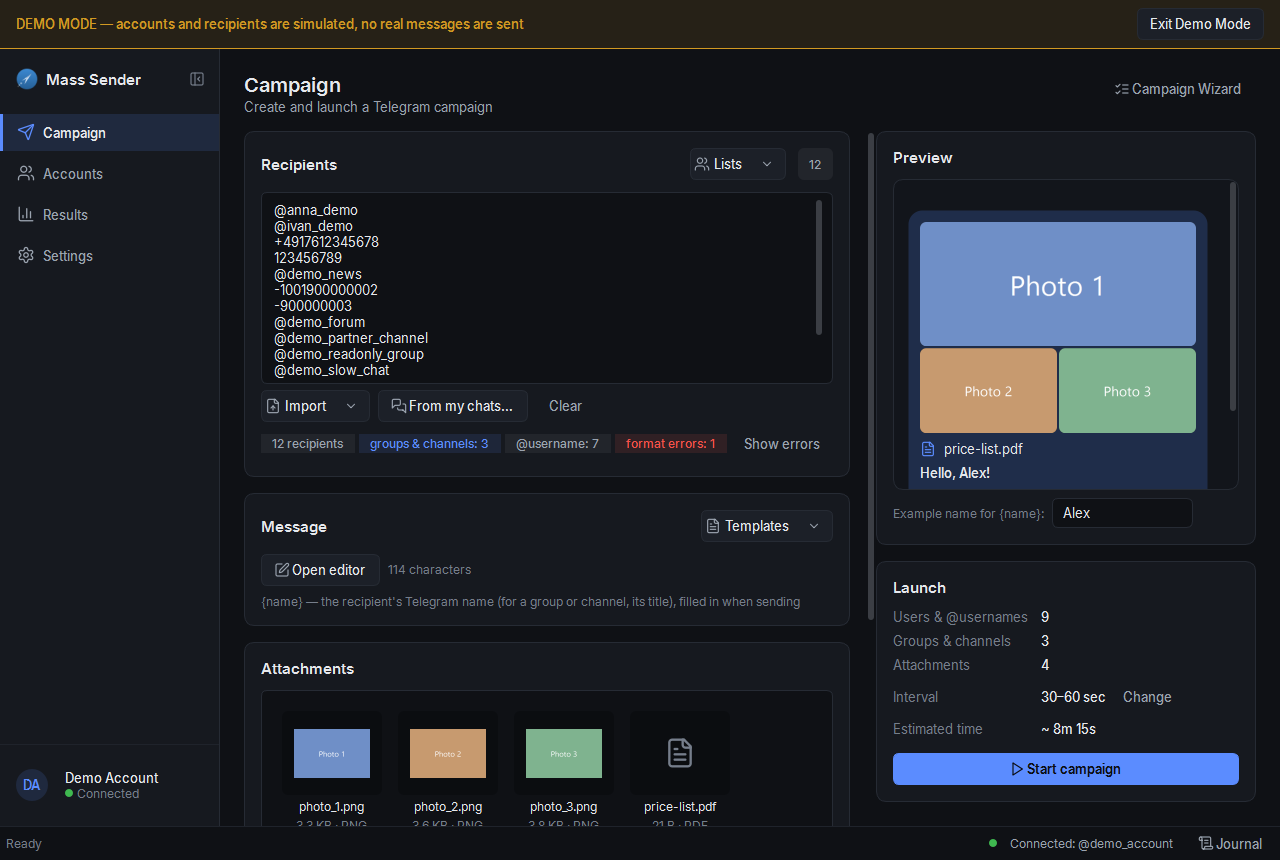
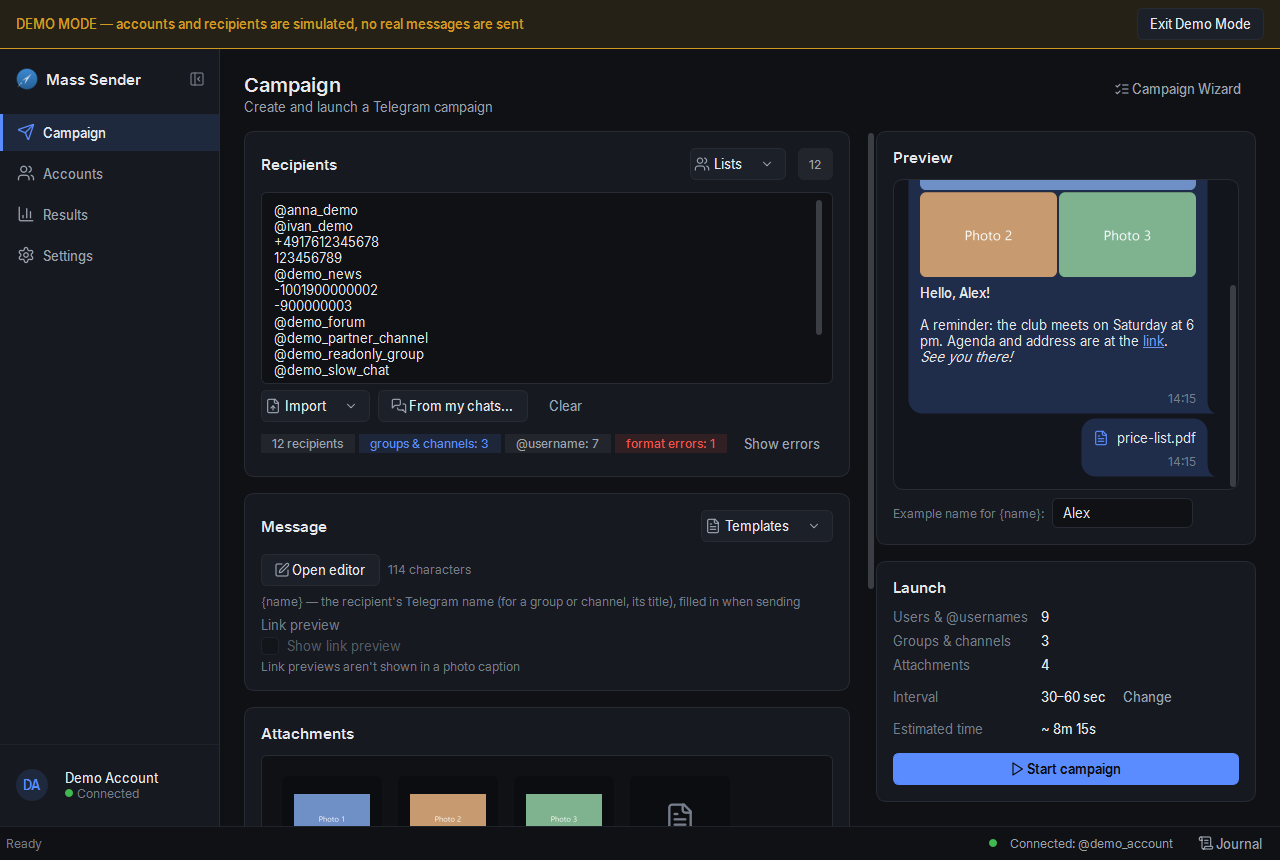
Docs for v2.1.2: caption limit and split, link previews
README (EN features and screenshots, RU guide section "Подпись к фото
и превью ссылок"), test count 1282, reshot campaign/journal screenshots
and two new ones (caption split, link preview) -- Demo Mode, isolated
data, window grabs only. Draft release notes (RU, then EN); version, tag
and release stay a separate task.

diff --git a/README.md b/README.md
@@ -16,7 +16,7 @@ A Windows desktop application that sends personal Telegram messages to a list of
 
 TelegramMassSender sends the *same message, personally, to each recipient in a list* — one Telegram message per recipient, from the user's own account, the way you'd write to each of them individually. Recipients are people, and optionally groups, supergroups and channels **the account is already a member of and allowed to post in** — it never joins a chat on its own, and Telegram's restrictions (permissions, slow mode, FloodWait) are respected, never worked around. It is not a bot and not a bulk-marketing tool. It integrates directly with Telegram's native **MTProto** protocol via **Telethon** — not the Bot API — and runs a real async event loop (**qasync**) bridging Qt's UI thread with `asyncio` network I/O.
 
-It supports multiple Telegram accounts, rich text formatting, media/album attachments, per-recipient `{name}` personalization (including from a CSV column), phone-number recipient resolution, a Telegram-style live message preview, saved recipient lists and message templates, an optional step-by-step Campaign Wizard, failed-recipient retry, structured diagnostics, a full Russian/English UI, and campaign reporting — all backed by a 1223-test automated regression suite and a real Windows-packaged build (PyInstaller).
+It supports multiple Telegram accounts, rich text formatting, media/album attachments, per-recipient `{name}` personalization (including from a CSV column), phone-number recipient resolution, a Telegram-style live message preview, saved recipient lists and message templates, an optional step-by-step Campaign Wizard, failed-recipient retry, structured diagnostics, a full Russian/English UI, and campaign reporting — all backed by a 1282-test automated regression suite and a real Windows-packaged build (PyInstaller).
 
 ## Key Features
 
@@ -27,6 +27,8 @@ It supports multiple Telegram accounts, rich text formatting, media/album attach
 - A **From my chats…** picker (Campaign page and Campaign Wizard) lists every dialog of the active account — people, bots, groups, supergroups, forums, channels — newest first, with type segments, a Telegram-folder filter, an archive toggle and search by name/title/@username. Dialogs it can't write to are shown muted with the reason; ones already in the list are marked and not added twice. Picked dialogs go in as `@username`, or as their ID when there is none (a person added by ID is found through the account's dialogs at send time). It only reads the dialog and folder lists — no joining, no avatars downloaded — once per session per account (Refresh and account changes read them again), and a campaign's dialogs warm-up starts from that same list.
 - Per-recipient name personalization via a `{name}` placeholder, including inside rich-text formatting; for a group/channel it becomes the chat's title; a CSV-supplied name takes priority over Telegram's own name for that recipient.
 - Rich text editor (bold/italic/underline/strikethrough/spoiler/monospace/code block/links/emoji) with a live Telegram-style message preview, including a personalization preview against an example name.
+- One send plan for the preview and the send: the preview draws every message that will actually go out, in order. A text longer than the account's caption limit (Telegram's own value for the account: 1024, more with Premium; counted in UTF-16 like Telegram) goes as its own message, with a calm notice and a choice of order (text first or the photo first); a hint appears when a long `{name}` could push it over.
+- Link previews under your control: off by default, so a mass send looks the same for everyone; for one link a switch, for several a list (plain URLs and links under text), above or below the text, large or small image. Unavailable, with the reason, when the text is a caption. The preview shows the card (title and description from Telegram when the account is connected).
 - Saved recipient lists and message templates (text, formatting, attachments, optionally the sending interval), each behind one compact **Lists ▾** / **Templates ▾** menu in its card's header — on the Campaign page and in the Campaign Wizard: save the current one by name, load or delete a saved one.
 - Recipient counts that use what the account's dialogs already told the app: an `@username` found among the dialogs read by **From my chats…** counts as a person, a bot or a group/channel; one not seen there yet gets its own "@username" count, since its type is only known when sending. The counts follow a refresh and an account change.
 - An optional step-by-step Campaign Wizard (Recipients → Message → Attachments → Sending options → Preview → Confirmation) alongside the existing fast single-page workflow.
@@ -61,6 +63,14 @@ It supports multiple Telegram accounts, rich text formatting, media/album attach
 Attachments are sent in the order shown, and that order can be changed by dragging a tile onto the slot it should occupy or with the explicit Move earlier / Move later controls (Ctrl+← / Ctrl+→ from the keyboard):
 
 ![Attachment ordering](docs/images/attachment-ordering.png)
+
+A text too long for a photo caption: the preview shows the two messages that will be sent, the notice says why, and the order can be chosen:
+
+![Caption limit and split](docs/images/caption-split.png)
+
+Link preview: chosen link, position and image size; the preview shows the card where it will be:
+
+![Link preview](docs/images/link-preview.png)
 
 *All screenshots use synthetic demo data — no real Telegram accounts, recipients, or personal information.*
 
@@ -112,7 +122,7 @@ A few parts of this project involved real engineering problems, not just wiring 
 1. **Qt + asyncio integration (`qasync`).** Qt owns its own event loop; Telethon needs `asyncio`. Running both in the same thread — without blocking the UI during a network call or a multi-minute FloodWait — is a real event-loop integration problem, not just `async def` syntax.
 2. **Telethon / MTProto integration.** Direct use of Telegram's native protocol client (not the simpler Bot API), including manual entity resolution and album/media construction.
 3. **UTF-16 entity offset handling.** Telegram's rich-text formatting offsets are defined in UTF-16 code units, not Python string indices. Splicing a variable-length `{name}` into already-formatted text — correctly, across astral-plane emoji, without corrupting bold/link boundaries — required working in UTF-16 surrogate-pair space.
-4. **Media/album batching under Telegram's constraints.** Photos/videos are grouped into albums of up to 10, and a message decides at the 1024-character boundary whether text becomes a caption or its own leading message — without ever silently dropping the user's text.
+4. **Media/album batching under Telegram's constraints.** Photos/videos are grouped into albums of up to 10, and the account's caption limit (help.getAppConfig, by Premium status, UTF-16 length) decides whether text becomes a caption or its own message — without ever silently dropping the user's text. One send plan is executed by the sender and drawn by the preview, so the two can't disagree.
 5. **FloodWait-aware campaign handling.** Telegram's own rate-limit signal pauses the queue, surfaces the wait time, and requires an explicit manual resume — the app never auto-retries around it.
 6. **Duplicate campaign-start race protection.** A synchronous guard closes a real TOCTOU gap between a button click and an awaited network call that could otherwise let two independent send loops run over the same recipient list. Found via code review, reproduced with a failing test, then fixed.
 7. **Windows DPAPI credential protection.** API credentials are encrypted at rest via the real Windows `CryptProtectData` API, tied to the OS user account — no custom cryptography, no key management burden.
@@ -136,7 +146,7 @@ Ordinary parts — not oversold: the settings page is a straightforward form bou
 pytest tests/ -v
 ```
 
-**1223 automated tests, 0 failures** (pytest + pytest-asyncio), run against a hand-built mock Telegram client (`tests/mocks/mock_telegram_client.py`) — no real Telegram account or network access needed. Coverage includes:
+**1282 automated tests, 0 failures** (pytest + pytest-asyncio), run against a hand-built mock Telegram client (`tests/mocks/mock_telegram_client.py`) — no real Telegram account or network access needed. Coverage includes:
 
 - Recipient parsing and import (all supported formats including phone numbers and malformed input, TXT import, and content-based CSV column/name detection).
 - Rich-text formatting and UTF-16 entity offset correctness, including the `{name}` placeholder (typed, CSV-supplied, and at message lengths well past Telegram's own text limit).
@@ -164,7 +174,7 @@ This is distinct from **manual packaged-build validation**: before each release,
 
 This project's requirements, architecture, and scope were defined and directed by the developer (BagroDeRose). Implementation was done with extensive AI assistance — primarily **Claude Code** — used for writing code, debugging, writing tests, code review, and documentation, always under human direction and verification rather than as unsupervised generation:
 
-- Every change is covered by the automated test suite (1223 tests, pytest/pytest-asyncio, mocked Telegram client).
+- Every change is covered by the automated test suite (1282 tests, pytest/pytest-asyncio, mocked Telegram client).
 - Bug fixes follow a reproduce → understand root cause → write a failing test → fix → regression test cycle, not guesswork.
 - A dedicated code review and security/privacy audit was performed before each public release (secret storage, log contents, session handling, git history sanitization).
 - The packaged Windows `.exe` is manually launched and validated before release — a successful build is not treated as sufficient on its own.
@@ -215,6 +225,7 @@ Latest release: **[v2.1.1](https://github.com/BagroDeRose/TelegramMassSender/rel
 - [Как добавить получателей](#как-добавить-получателей)
 - [Сохранённые списки получателей](#сохранённые-списки-получателей)
 - [Создание сообщения](#создание-сообщения)
+  - [Подпись к фото и превью ссылок](#подпись-к-фото-и-превью-ссылок)
 - [Автоматическая подстановка имени ({name})](#автоматическая-подстановка-имени-name)
 - [Шаблоны сообщений](#шаблоны-сообщений)
 - [Мастер кампании](#мастер-кампании)
@@ -586,6 +597,30 @@ https://t.me/user3
 
 > В текущей версии нет отдельной кнопки «Тестовая отправка». Чтобы заранее проверить, как сообщение и вложения будут выглядеть на практике, добавьте в список получателей свой второй Telegram-аккаунт (или доверенного знакомого) первым — и запустите обычную рассылку на этот единственный адрес, прежде чем вставлять в список всех остальных получателей.
 
+#### Подпись к фото и превью ссылок
+
+**Подпись к фото.** Текст к фото или файлу Telegram отправляет подписью, но у подписи есть предел — для обычного аккаунта 1 024 символа, у Premium больше (программа узнаёт лимит вашего аккаунта у самого Telegram; символы считаются так же, как в Telegram, — эмодзи может занимать два). Если текст длиннее:
+
+- в карточке «Сообщение» и в редакторе появляется спокойное предупреждение: *«Текст длиннее подписи к фото (1 487 из 1 024) — фото и текст уйдут двумя сообщениями»*;
+- там же можно выбрать порядок: **«Сначала текст, потом фото»** (как раньше) или **«Сначала фото, потом текст»**;
+- предпросмотр показывает ровно те сообщения, которые уйдут, и в том же порядке;
+- счётчик символов в редакторе при вложениях показывает лимит подписи.
+
+Если в тексте есть `{name}`, длина считается с примером имени; если с длинным именем получателя текст может не поместиться, программа подскажет об этом.
+
+![Подпись к фото и разделение](docs/images/caption-split.png)
+
+**Превью ссылки.** Когда в тексте есть ссылки (обычные адреса или ссылки под текстом, например «Канал» → `t.me/...`), в карточке «Сообщение» и в редакторе появляется блок **«Превью ссылки»**:
+
+- по умолчанию превью **выключено** — при рассылке сообщение выглядит одинаково у всех получателей;
+- одна ссылка — переключатель **«Показывать превью ссылки»**; несколько — список **«Без превью / ссылка 1 / ссылка 2…»** (виден текст ссылки и домен);
+- **«Положение: Под текстом / Над текстом»** и **«Изображение: Как решит Telegram / Крупное / Мелкое»**;
+- если текст уходит подписью к фото, превью невозможно — блок неактивен с пояснением «В подписи к фото превью ссылок не показываются».
+
+Предпросмотр показывает карточку превью там, где она будет: заголовок и описание страницы, если аккаунт подключён (картинки не загружаются), иначе — домен. Настройки порядка и превью сохраняются в шаблоне и используются при «Повторить ошибки». Шаблоны, сохранённые раньше, открываются с выключенным превью.
+
+![Превью ссылки](docs/images/link-preview.png)
+
 #### Добавление файлов, фото и видео
 
 Под текстовым полем — карточка **«Вложения»**:
@@ -606,7 +641,7 @@ https://t.me/user3
 
 С клавиатуры: перейдите на плитку клавишей Tab и нажимайте **Ctrl+←** или **Ctrl+→**. Обычные стрелки без Ctrl только перемещают фокус между плитками и порядок не меняют.
 
-**Пример подготовки сообщения:** в поле сообщения написан текст «Добрый день! Высылаю презентацию, ознакомьтесь, пожалуйста.», в карточке «Вложения» добавлен файл `presentation.pptx` — при отправке получатель увидит текст и файл вместе (если текст короткий) либо текст отдельным сообщением, а сразу за ним — файл (если текст слишком длинный для подписи к файлу — программа сама разделит их на два сообщения, но текст никогда не потеряется).
+**Пример подготовки сообщения:** в поле сообщения написан текст «Добрый день! Высылаю презентацию, ознакомьтесь, пожалуйста.», в карточке «Вложения» добавлен файл `presentation.pptx` — при отправке получатель увидит текст и файл вместе (если текст короткий) либо текст и файл двумя сообщениями (если текст длиннее подписи — программа сама разделит их и заранее покажет это в предпросмотре; порядок можно выбрать, см. [«Подпись к фото и превью ссылок»](#подпись-к-фото-и-превью-ссылок)). Текст никогда не теряется.
 
 ---
 
@@ -886,7 +921,7 @@ build_windows.bat
 .venv\Scripts\python -m pytest tests/ -v
 ```
 
-На момент подготовки этой версии README полный набор тестов проходит целиком: **1223 тестов, 0 ошибок** (pytest + pytest-asyncio). Тесты используют собственный мок Telegram-клиента (`tests/mocks/mock_telegram_client.py`) вместо настоящего сервера Telegram, поэтому для их запуска не нужен ни интернет, ни реальный Telegram-аккаунт. Тесты также запускаются автоматически в GitHub Actions при каждом push/PR — см. значок «Tests» в начале README.
+На момент подготовки этой версии README полный набор тестов проходит целиком: **1282 тестов, 0 ошибок** (pytest + pytest-asyncio). Тесты используют собственный мок Telegram-клиента (`tests/mocks/mock_telegram_client.py`) вместо настоящего сервера Telegram, поэтому для их запуска не нужен ни интернет, ни реальный Telegram-аккаунт. Тесты также запускаются автоматически в GitHub Actions при каждом push/PR — см. значок «Tests» в начале README.
 
 #### Технологический стек
 
@@ -912,7 +947,7 @@ Windows-приложение на **Python + PySide6** (Qt для интерфе
 
 #### Как разрабатывался этот проект
 
-Требования, архитектуру и объём функциональности этого проекта определял автор репозитория. AI-инструменты (Claude Code) активно использовались в реализации, отладке, написании тестов, ревью кода и подготовке документации — но под его руководством и с его проверкой на каждом шаге, а не как автономная генерация без контроля. Это не означает, что код не проверялся: каждое изменение сопровождается автоматическими тестами (сейчас это упомянутые выше 1223 тестов на pytest/pytest-asyncio с мок-клиентом Telegram), а исправление ошибок в проекте ведётся по принципу «сначала воспроизвести проблему → понять причину → написать тест → исправить → прогнать регрессионные тесты», а не «на глаз». Перед публикацией репозитория отдельно проведены обзор кода и проверка безопасности/приватности (хранение секретов, содержимое логов, работа с сессиями), а собранный Windows-EXE запускался и проверялся вручную, а не считался готовым сразу по факту успешной сборки.
+Требования, архитектуру и объём функциональности этого проекта определял автор репозитория. AI-инструменты (Claude Code) активно использовались в реализации, отладке, написании тестов, ревью кода и подготовке документации — но под его руководством и с его проверкой на каждом шаге, а не как автономная генерация без контроля. Это не означает, что код не проверялся: каждое изменение сопровождается автоматическими тестами (сейчас это упомянутые выше 1282 тестов на pytest/pytest-asyncio с мок-клиентом Telegram), а исправление ошибок в проекте ведётся по принципу «сначала воспроизвести проблему → понять причину → написать тест → исправить → прогнать регрессионные тесты», а не «на глаз». Перед публикацией репозитория отдельно проведены обзор кода и проверка безопасности/приватности (хранение секретов, содержимое логов, работа с сессиями), а собранный Windows-EXE запускался и проверялся вручную, а не считался готовым сразу по факту успешной сборки.
 
 #### Где на диске хранятся данные пользователя
 

diff --git a/docs/release-notes/v2.1.2.md b/docs/release-notes/v2.1.2.md
@@ -1,0 +1,38 @@
+# Telegram Mass Sender v2.1.2
+
+> Черновик. Версия в программе, тег и релиз — отдельной задачей.
+> Draft. The version number, tag and release are a separate task.
+
+## Русский
+
+### Предпросмотр совпадает с отправкой
+- Раньше предпросмотр показывал длинный текст и фото одним сообщением с подписью, а при отправке текст уходил отдельным сообщением. Теперь предпросмотр и отправка строятся по одному и тому же плану: предпросмотр показывает ровно те сообщения, которые уйдут, в том же порядке.
+- Лимит подписи берётся для вашего аккаунта у самого Telegram: для обычного аккаунта 1 024 символа, у Premium больше. Если узнать его не удалось — 1 024. Символы считаются так же, как в Telegram (эмодзи может занимать два).
+- Если текст длиннее подписи, в карточке «Сообщение» и в редакторе появляется предупреждение, например: «Текст длиннее подписи к фото (1 487 из 1 024) — фото и текст уйдут двумя сообщениями». Счётчик символов в редакторе при вложениях показывает лимит подписи.
+- Для этого случая можно выбрать порядок: «Сначала текст, потом фото» (как раньше) или «Сначала фото, потом текст». Выбор сохраняется в шаблоне.
+- Если в тексте есть `{name}`, длина считается с примером имени. Если с длинным именем получателя текст может не поместиться, программа подскажет.
+- Файлы, которые Telegram отправляет отдельными сообщениями (например, документ рядом с альбомом), в предпросмотре теперь тоже отдельные сообщения.
+
+### Превью ссылок
+- **Изменение поведения:** раньше Telegram сам строил превью для первой ссылки в тексте. Теперь превью по умолчанию **выключено** — при рассылке сообщение выглядит одинаково у всех. Старые шаблоны открываются с выключенным превью.
+- Блок «Превью ссылки» в карточке «Сообщение» и в редакторе (виден, когда в тексте есть ссылки): для одной ссылки — переключатель, для нескольких — выбор ссылки (обычные адреса и ссылки под текстом, в том числе `t.me`), положение над текстом или под ним, крупное или мелкое изображение.
+- В подписи к фото превью ссылок не показываются — тогда блок неактивен и объясняет почему.
+- Предпросмотр показывает карточку превью там, где она будет: с заголовком и описанием страницы, если аккаунт подключён, иначе — с доменом.
+- Настройки превью и порядка сохраняются в шаблоне, работают в Мастере кампании и при «Повторить ошибки».
+
+## English
+
+### The preview matches what is sent
+- The preview used to show a long text and a photo as one captioned message while the send split them. Now the preview and the send use the same plan: the preview shows exactly the messages that will go out, in the same order.
+- The caption limit is your account's, as Telegram reports it: 1,024 characters for a regular account, more with Premium; 1,024 if it can't be read. Characters are counted the way Telegram counts them (an emoji may take two).
+- When the text is longer than a caption, the Message card and the editor say so, for example: "The text is longer than a photo caption (1,487 of 1,024) — the photo and the text will go as two messages". With attachments, the editor's character counter shows the caption limit.
+- For that case you can choose the order: "Text first, then the photo" (as before) or "Photo first, then the text". The choice is saved with a template.
+- With `{name}` in the text, the length is counted with the example name, and you get a hint when a long recipient name could push it over.
+- Files that Telegram sends as separate messages (for example a document next to an album) are now separate messages in the preview too.
+
+### Link previews
+- **Behaviour change:** Telegram used to build a preview for the first link on its own. Previews are now **off** by default, so a mass send looks the same for everyone. Templates saved earlier open with the preview off.
+- A "Link preview" block in the Message card and the editor (shown when the text has links): a switch for one link, a choice of link for several (plain addresses and links under text, `t.me` included), above or below the text, large or small image.
+- Telegram shows no link previews in a photo caption; in that case the block is disabled and says why.
+- The preview shows the card where it will be: with the page title and description when the account is connected, otherwise with the domain.
+- Preview and order settings are saved with a template and work in the Campaign Wizard and for "Retry failures".
